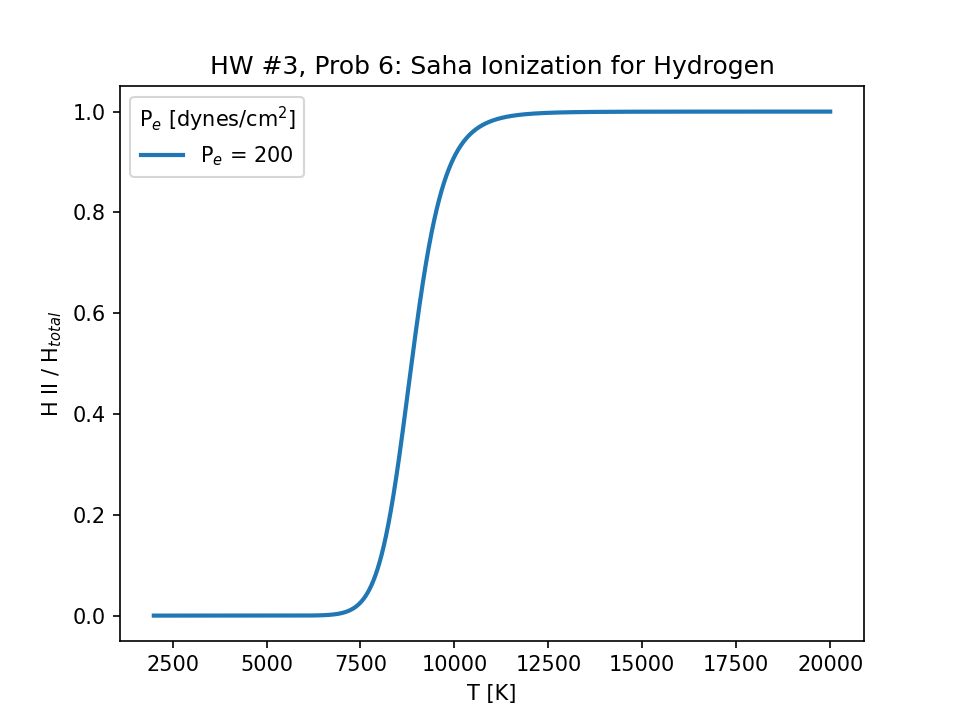
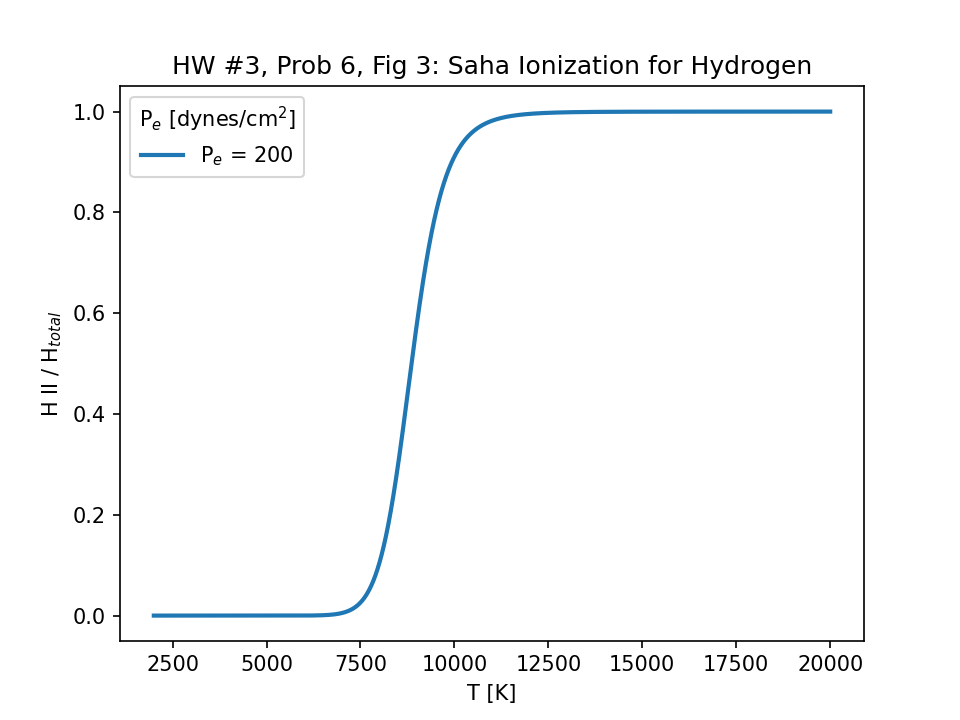
q9 done & other changes

Changed region(s): [[0.1875, 0.0611, 0.8438, 0.1222]]

diff --git a/HW3/question9.py b/HW3/question9.py
@@ -1,0 +1,59 @@
+import numpy as np
+import matplotlib.pyplot as plt
+import astropy.constants as const
+import astropy.units as u
+
+dir_path = '/Users/audrey/Documents/PHYS521/HW3/'
+
+# Constants
+M_sun = 1.989e33 *u.g  # Solar mass
+R_sun = 6.96e10 *u.cm  # Solar radius
+
+# Data from Appendix G
+star_mass = np.array(
+    [
+        60, 37, 23,  # O type
+        17.5, 7.6, 5.9, 3.8,  # B type
+        2.9, 2.0,  # A type
+        1.6, 1.4, # F type
+        1.05, 1.00,  # G type
+        0.79, 0.67,  # K type
+        0.51, 0.40, 0.21  # M type
+    ]
+) * M_sun  # [g]
+star_radius = np.array(
+    [
+        13.4, 12.2, 10.0,  # O type
+        6.7, 3.8, 3.2, 2.5,  # B type
+        2.2, 1.8,  # A type
+        1.4, 1.2,  # F type
+        1.06, 1.00,  # G type
+        0.93, 0.80,  # K type
+        0.63, 0.48, 0.29  # M type
+    ]
+)  * R_sun  # [cm]
+
+# Densities
+star_density = star_mass / (4*np.pi/3 * star_radius**3)  # [g/cm^3]
+air_density = 1.2e-3 *u.g/(u.cm)**3  # [g/cm^3]
+water_density = 1.0 *u.g/(u.cm)**3  # [g/cm^3]
+lead_density = 11.34 *u.g/(u.cm)**3  # [g/cm^3]
+# Sources:
+# https://chem.libretexts.org/Courses/Cleveland_State_University/CHM_151%3A_Chemistry_Around_Us/01%3A_Properties_and_Measurement_of_Matter/1.05%3A_Density
+# https://kg-m3.com/material/lead
+
+# Plot
+plt.figure(dpi=150)
+plt.plot(star_mass, star_density, marker='o', color='k', linestyle='-', label='MS Stars')
+plt.axhline(np.mean(star_density.value), color='grey', linestyle='--', label='Average MS Star')
+plt.axhline(air_density.value, color='r', linestyle='--', label='Air')
+plt.axhline(water_density.value, color='b', linestyle='--', label='Water')
+plt.axhline(lead_density.value, color='g', linestyle='--', label='Lead')
+plt.xlabel('Mass [g]')
+plt.ylabel(r'$\rho_{avg}$ [g/cm${^3}$]')
+plt.title('HW #3, Prob 9, Fig 1: Density vs Mass for Main Sequence Stars')
+plt.legend()
+plt.savefig(dir_path+'figures/q9_fig1.png')
+plt.show()
+
+print(f'Average density of Main Sequence Stars: {np.mean(star_density):.2f}')

diff --git a/HW3/question78.py b/HW3/question78.py
@@ -61,7 +61,10 @@ star_lum = np.array(
         4.99e5, 3.24e5, 1.47e5,  # O type
         3.25e4, 1580, 480, 96.7,  # B type
         39.4, 12.3,  # A type
-        5.21, 2.56  # F type
+        5.21, 2.56,  # F type
+        1.25, 1.00,  # G type
+        0.552, 0.216,  # K type
+        0.077, 0.032, 0.0076  # M type
     ]
 ) * L_sun  # [erg/s]
 star_mass = np.array(
@@ -69,7 +72,10 @@ star_mass = np.array(
         60, 37, 23,  # O type
         17.5, 7.6, 5.9, 3.8,  # B type
         2.9, 2.0,  # A type
-        1.6, 1.4 # F type
+        1.6, 1.4, # F type
+        1.05, 1.00,  # G type
+        0.79, 0.67,  # K type
+        0.51, 0.40, 0.21  # M type
     ]
 )  # [M_sun]
 

diff --git a/HW3/saha.py b/HW3/saha.py
@@ -61,7 +61,7 @@ def plot_saha(fig_num, P_e_arr, T, ratio_arr, q_num=4):
     yscale = 'linear' if fig_num==3 else 'log'
     plt.yscale(yscale)
     plt.legend(title=r'P$_e$ [dynes/cm$^2$]')
-    plt.title(f'HW #3, Prob {q_num}: Saha Ionization for Hydrogen')
+    plt.title(f'HW #3, Prob {q_num}, Fig {fig_num}: Saha Ionization for Hydrogen')
     # Save
     plt.savefig(dir_path+f'/figures/q{q_num}_fig{fig_num}.png')
     plt.show()
